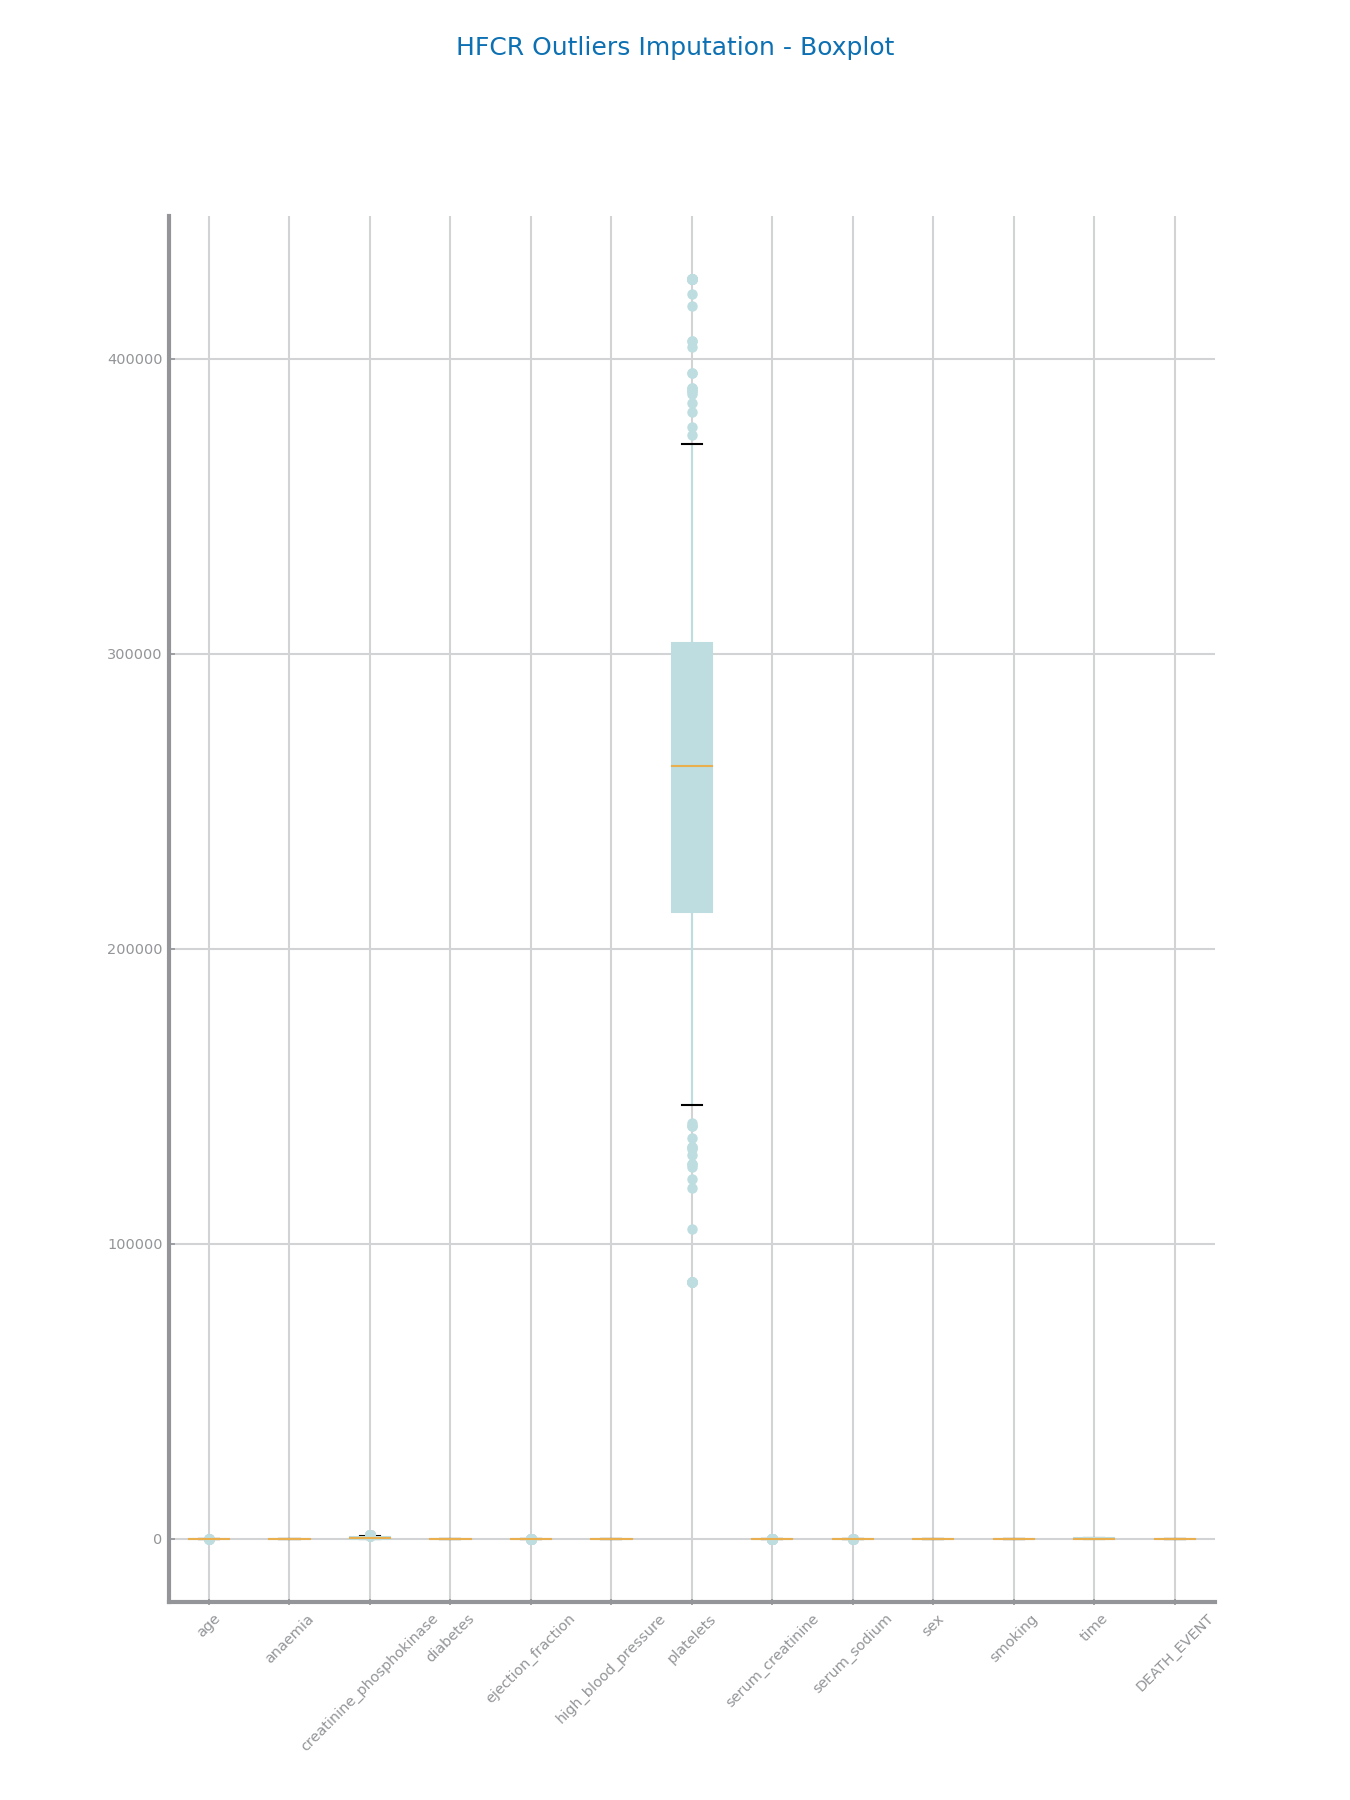
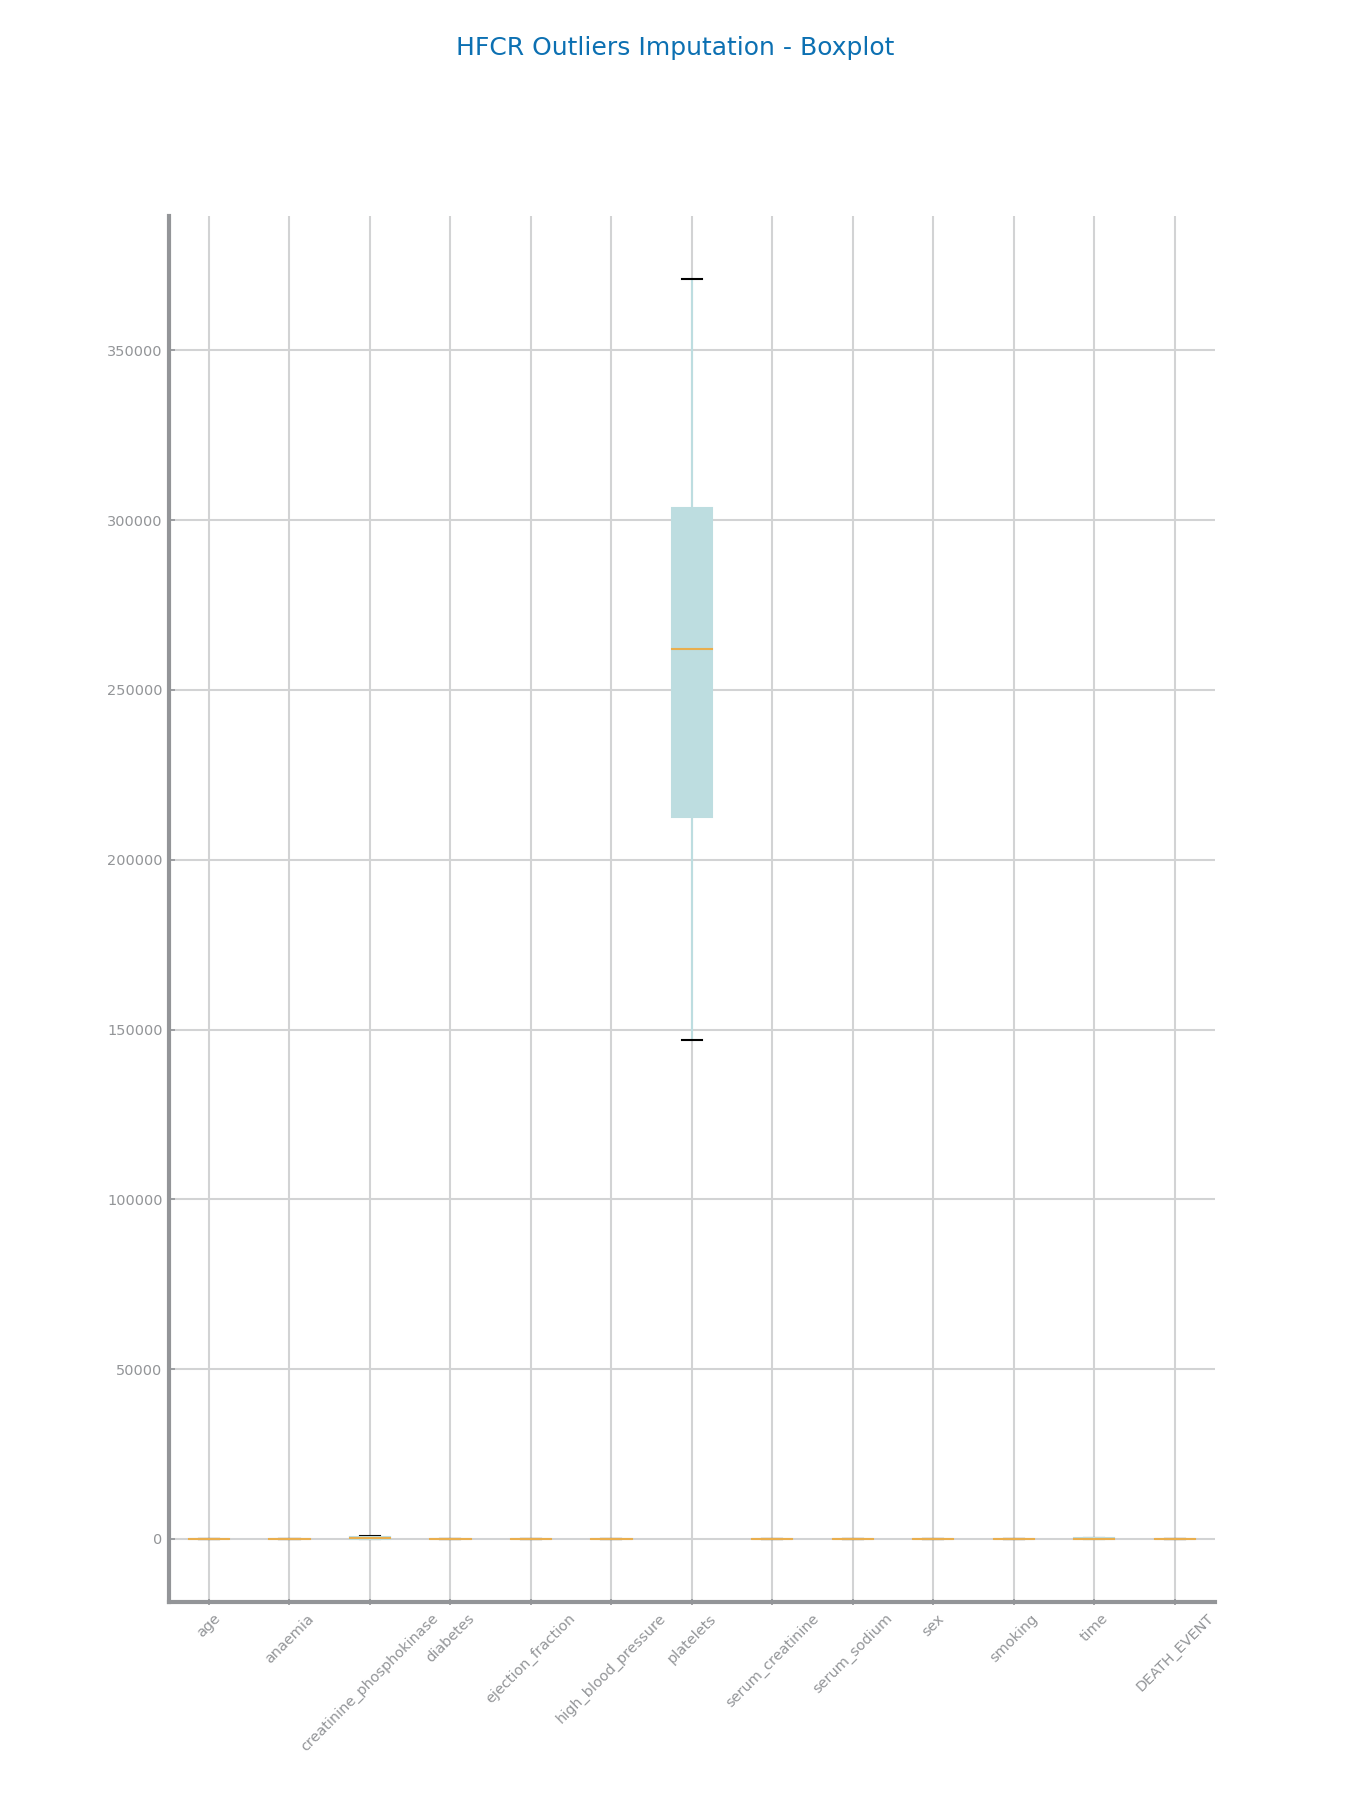
boxplot fix

diff --git a/Labs/Lab04/HFCR_outliers_imputation.py b/Labs/Lab04/HFCR_outliers_imputation.py
@@ -37,8 +37,8 @@ for var in data:
 	q1 = data[var].quantile(0.25)
 	q3 = data[var].quantile(0.75)
 	iqr = q3 - q1
-	lower_limit = q1-1.5*iqr
-	higher_limit = q3+1.5*iqr
+	lower_limit = q1 -  (1.5/2)*iqr
+	higher_limit = q3 + (1.5/2)*iqr
 
 	acceptable_values = data.loc[(data[var] >= lower_limit) & (data[var] <= higher_limit)]
 
